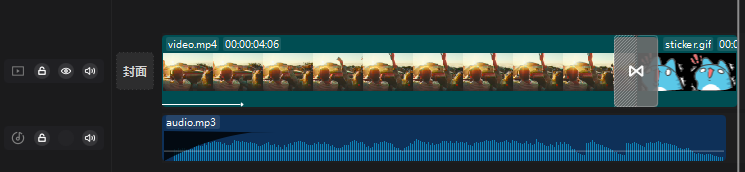
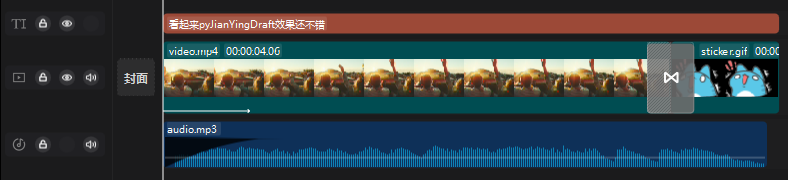
Add demonstration for Text_segment to the quick start section

diff --git a/pyJianYingDraft/segment.py b/pyJianYingDraft/segment.py
@@ -133,7 +133,7 @@ class Clip_settings:
                  rotation: float = 0.0,
                  scale_x: float = 1.0, scale_y: float = 1.0,
                  transform_x: float = 0.0, transform_y: float = 0.0):
-        """初始化图像调节设置, 默认参数表示不作任何图像变换
+        """初始化图像调节设置, 默认不作任何图像变换
 
         Args:
             alpha (float, optional): 图像不透明度, 0-1. 默认为1.0.
@@ -144,6 +144,7 @@ class Clip_settings:
             scale_y (float, optional): 垂直缩放比例. 默认为1.0.
             transform_x (float, optional): 水平位移, 单位为半个画布宽. 默认为0.0.
             transform_y (float, optional): 垂直位移, 单位为半个画布高. 默认为0.0.
+                参考: 剪映导入的字幕似乎取此值为-0.8
         """
         self.alpha = alpha
         self.flip_horizontal, self.flip_vertical = flip_horizontal, flip_vertical

diff --git a/README.md b/README.md
@@ -57,15 +57,15 @@
 - ☑ 添加[转场](#快速上手)
   - ☑ 转场时长设置
 ### 文本及字幕
-- ☑ 添加普通文本
-- ☑ 设置基础字体样式
-- ☑ 文本位置及旋转设置
+- ☑ 添加[普通文本](#快速上手)
+- ☑ 设置基础[字体样式](#快速上手)
+- ☑ 文本[位置及旋转设置](#快速上手)
 - ⬜ 导入`.srt`文件生成一系列字幕
 - ❔ 文字特效
 
 # 用法速查
 ### 快速上手
-下方的例子将创建包含音视频素材的剪映草稿文件，并且添加了音频淡入、视频入场动画和转场效果。
+下方的例子将创建包含音视频素材和一行字幕的剪映草稿文件，并且添加了音频淡入、视频入场动画和转场效果。
 
 这个例子的操作方法如下：
 1. 在剪映里**创建一个空草稿**，找到它对应的**文件夹路径**（类似`.../JianyingPro Drafts/9月5日`）
@@ -83,8 +83,8 @@ tutorial_asset_dir = os.path.join(os.path.dirname(__file__), 'readme_assets', 't
 # 创建剪映草稿
 script = draft.Script_file(1080, 1080) # 1080x1080分辨率
 
-# 添加一个音频轨道和一个视频轨道
-script.add_track(draft.Track_type.audio).add_track(draft.Track_type.video)
+# 添加音频、视频和文本轨道
+script.add_track(draft.Track_type.audio).add_track(draft.Track_type.video).add_track(draft.Track_type.text)
 
 # 从本地读取音视频素材和一个gif表情包
 audio_material = draft.Audio_material(os.path.join(tutorial_asset_dir, 'audio.mp3'))
@@ -108,8 +108,14 @@ sticker_segment = draft.Video_segment(sticker_material,
 # 为二者添加一个转场
 video_segment.add_transition(Transition_type.信号故障) # 注意转场添加在“前一个”视频片段上
 
-# 将各片段添加到轨道中
+# 将上述片段添加到轨道中
 script.add_segment(audio_segment).add_segment(video_segment).add_segment(sticker_segment)
+
+# 创建一行类似字幕的文本片段并添加到轨道中
+text_segment = draft.Text_segment("据说pyJianYingDraft效果还不错?", trange(0, script.duration), # 文本将持续整个视频（注意script.duration在上方片段添加到轨道后才会自动更新）
+                                  style=draft.Text_style(color=(1.0, 1.0, 0.0)),                # 设置字体颜色为黄色
+                                  clip_settings=draft.Clip_settings(transform_y=-0.8))          # 模拟字幕的位置
+script.add_segment(text_segment)
 
 # 保存草稿（覆盖掉原有的draft_content.json）
 script.dump("<你的草稿文件夹>/draft_content.json")
